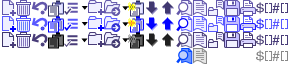
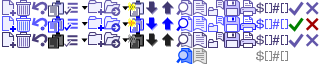
Improvements to source URL bar

diff --git a/src/chrome/skin/win/clippingsMgr.css b/src/chrome/skin/win/clippingsMgr.css
@@ -103,10 +103,6 @@ treechildren::-moz-tree-image(container, closed) {
   width: 100%;
 }
 
-#clipping-src-url-edit-btns button {
-  min-width: 24px;
-}
-
 #edit-url-btn {
   min-width: 36px;
 }
@@ -143,18 +139,10 @@ toolbarbutton:not(#placeholder-presets) {
   min-width: 52px;
 }
 
-#placeholder-toolbar > toolbarbutton {
-  -moz-box-orient: horizontal;
-}
-
 /* Workaround to unwanted margin on right of toolbarbutton image on Firefox
  * default theme. */
 toolbarbutton .toolbarbutton-icon {
   -moz-margin-end: 0px;
-}
-
-#placeholder-toolbar > toolbarbutton .toolbarbutton-icon {
-  -moz-margin-end: 4px;
 }
 
 #new-clipping {
@@ -283,7 +271,39 @@ toolbarbutton .toolbarbutton-icon {
   padding: 6px;
 }
 
+#clipping-src-url-edit-btns toolbarbutton {
+  min-width: 24px;
+}
+
+#clipping-src-url-edit-btns toolbarbutton image {
+  padding-top: 3px;
+}
+
+#src-url-edit-ok {
+  -moz-image-region: rect(0px, 304px, 16px, 288px);
+}
+
+#src-url-edit-ok:hover {
+  -moz-image-region: rect(16px, 304px, 32px, 288px);
+}
+
+#src-url-edit-cancel {
+  -moz-image-region: rect(0px, 320px, 16px, 304px);
+}
+
+#src-url-edit-cancel:hover {
+  -moz-image-region: rect(16px, 320px, 32px, 304px);
+}
+
 /* Insert Placeholder toolbar */
+#placeholder-toolbar > toolbarbutton {
+  -moz-box-orient: horizontal;
+}
+
+#placeholder-toolbar > toolbarbutton .toolbarbutton-icon {
+  -moz-margin-end: 4px;
+}
+
 #placeholder-custom {
   -moz-image-region: rect(0px, 272px, 16px, 256px);
 }

diff --git a/src/chrome/skin/mac/clippingsMgr.css b/src/chrome/skin/mac/clippingsMgr.css
@@ -104,10 +104,6 @@ treechildren::-moz-tree-image(container, closed) {
   width: 100%;
 }
 
-#clipping-src-url-edit-btns button {
-  min-width: 24px;
-}
-
 #edit-url-btn {
   min-width: 36px;
 }
@@ -332,6 +328,36 @@ toolbarbutton .toolbarbutton-icon {
 
 #ae-clippings-clipboard-alert, #import-empty-alert {
   padding: 6px;
+}
+
+#clipping-src-url-edit-btns toolbarbutton {
+  min-width: 18px;
+  padding-left: 1px;
+  padding-right: 1px;
+}
+
+#clipping-src-url-edit-btns toolbarbutton image {
+  padding-top: 2px;
+}
+
+#src-url-edit-ok {
+  -moz-image-region: rect(0px, 304px, 16px, 288px);
+  -moz-appearance: toolbarbutton;
+  margin-right: 1px;
+}
+
+#src-url-edit-ok:hover {
+  -moz-image-region: rect(16px, 304px, 32px, 288px);
+}
+
+#src-url-edit-cancel {
+  -moz-image-region: rect(0px, 320px, 16px, 304px);
+  -moz-appearance: toolbarbutton;
+  margin-left: 0;
+}
+
+#src-url-edit-cancel:hover {
+  -moz-image-region: rect(16px, 320px, 32px, 304px);
 }
 
 /* Insert Placeholder toolbar */

diff --git a/src/chrome/skin/all/clippingsMgr.css b/src/chrome/skin/all/clippingsMgr.css
@@ -103,10 +103,6 @@ treechildren::-moz-tree-image(container, closed) {
   width: 100%;
 }
 
-#clipping-src-url-edit-btns button {
-  min-width: 24px;
-}
-
 #edit-url-btn {
   min-width: 36px;
 }
@@ -281,6 +277,30 @@ toolbarbutton .toolbarbutton-icon {
 
 #ae-clippings-clipboard-alert, #import-empty-alert {
   padding: 6px;
+}
+
+#clipping-src-url-edit-btns toolbarbutton {
+  min-width: 24px;
+}
+
+#clipping-src-url-edit-btns toolbarbutton image {
+  padding-top: 2px;
+}
+
+#src-url-edit-ok {
+  -moz-image-region: rect(0px, 304px, 16px, 288px);
+}
+
+#src-url-edit-ok:hover {
+  -moz-image-region: rect(16px, 304px, 32px, 288px);
+}
+
+#src-url-edit-cancel {
+  -moz-image-region: rect(0px, 320px, 16px, 304px);
+}
+
+#src-url-edit-cancel:hover {
+  -moz-image-region: rect(16px, 320px, 32px, 304px);
 }
 
 /* Insert Placeholder toolbar */
